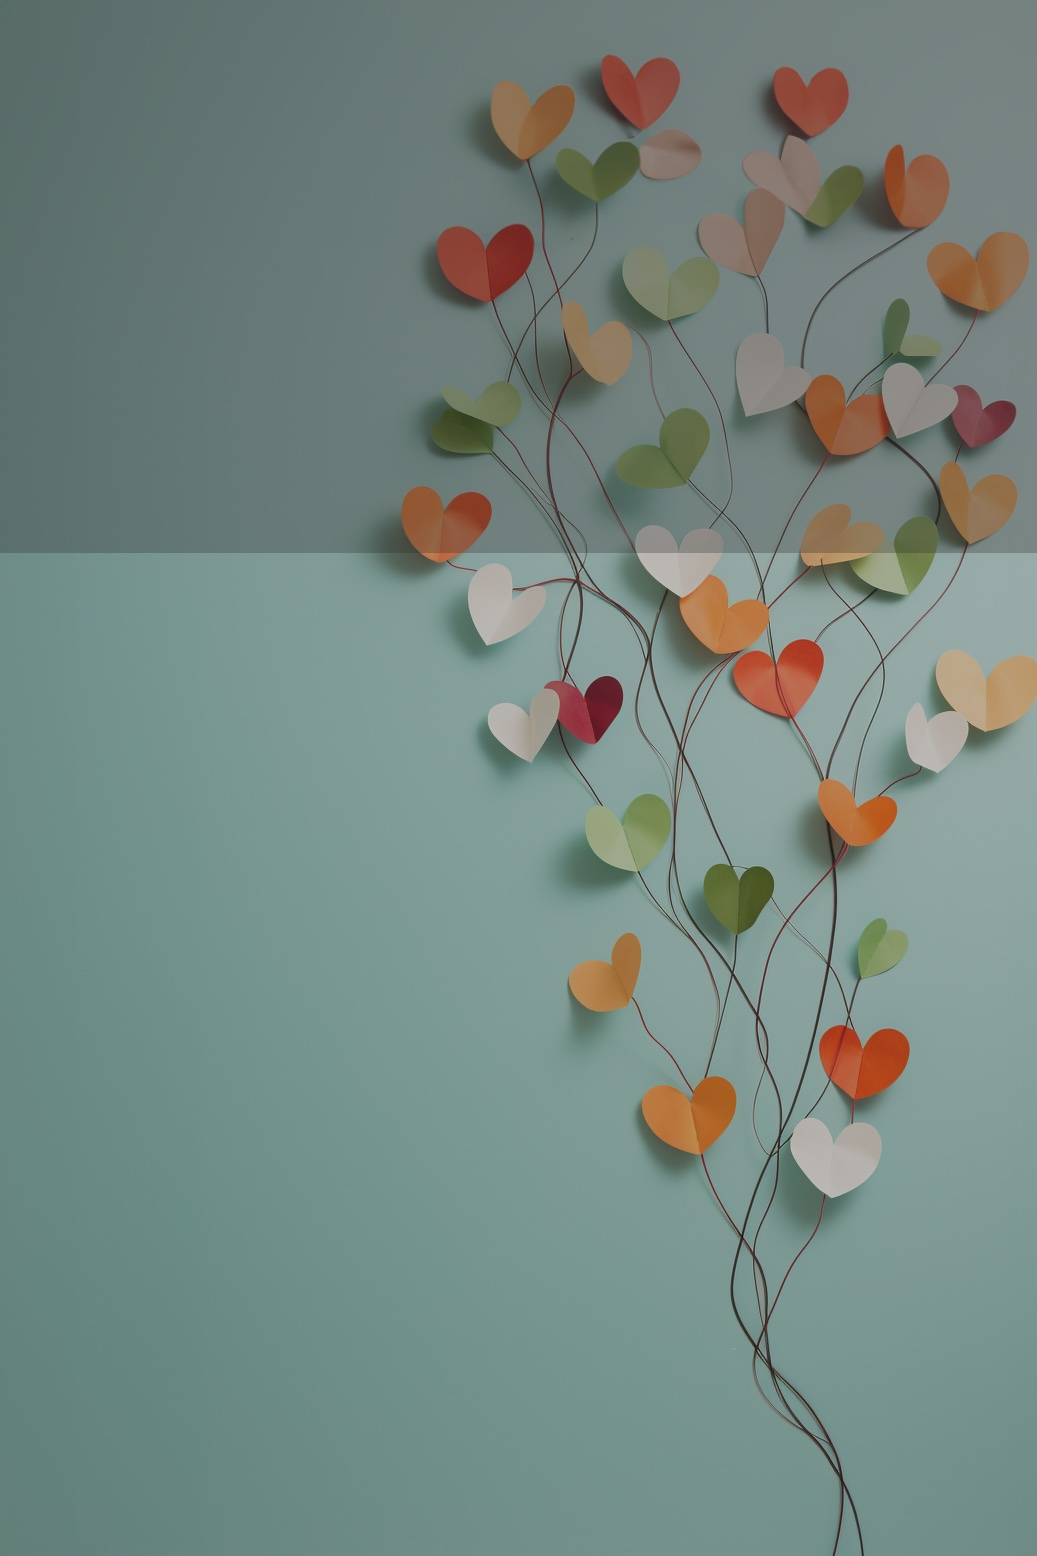
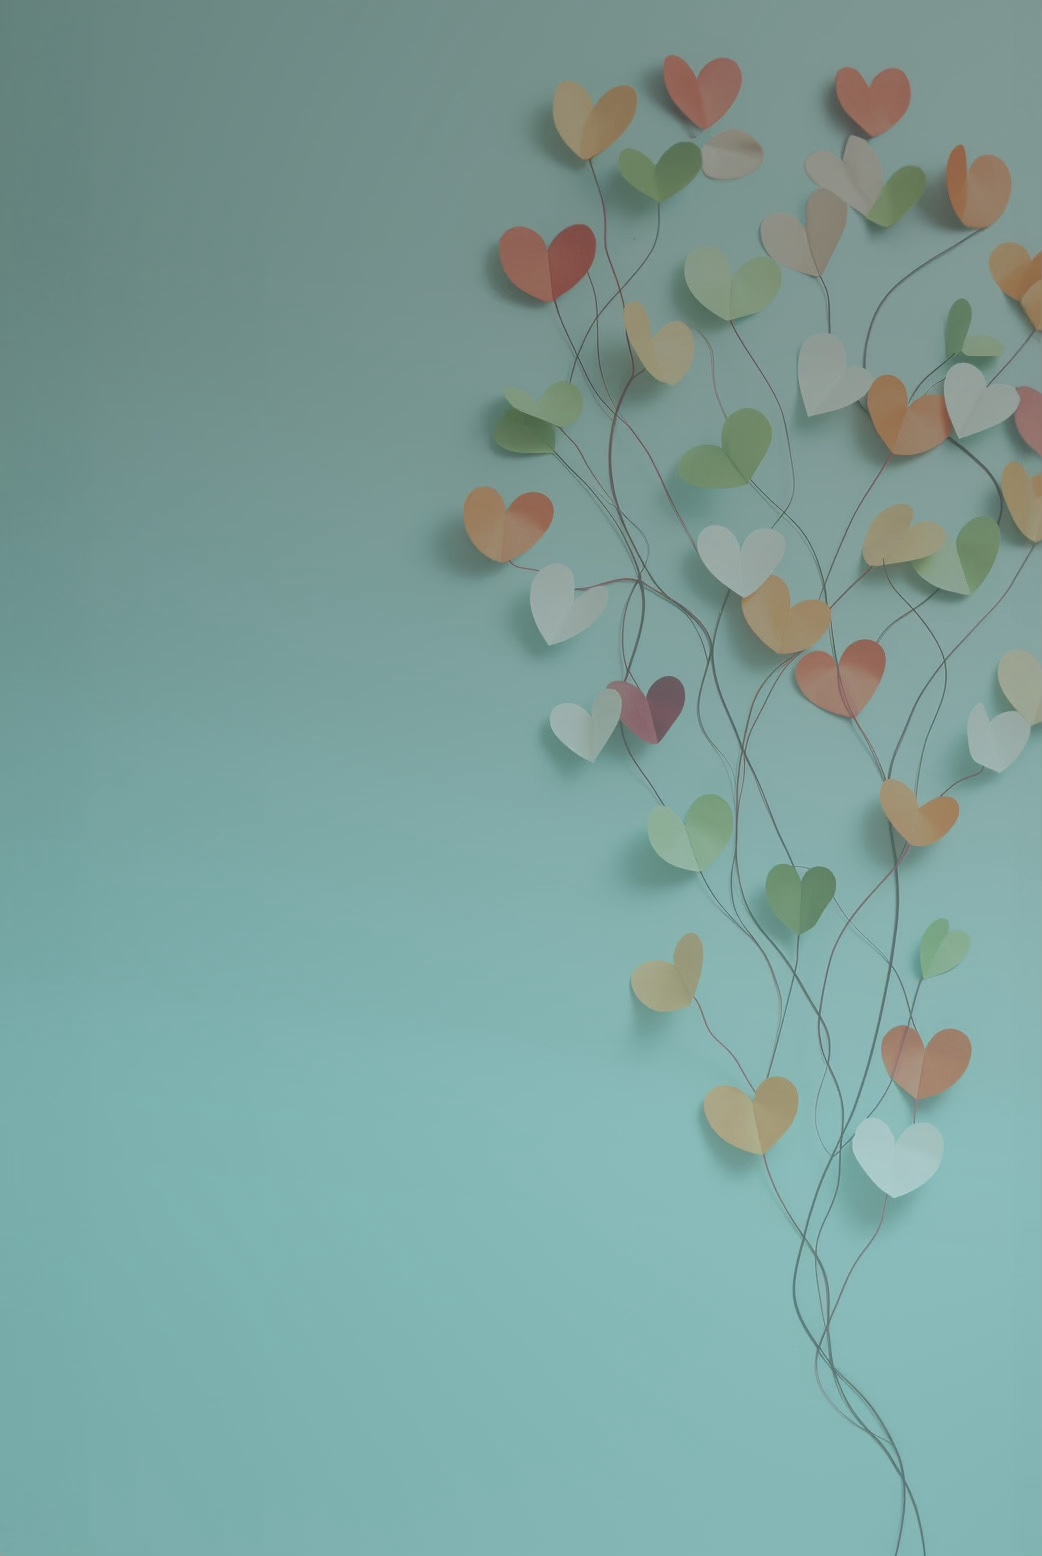
Landing hero

diff --git a/src/components/SectionHero/SectionHero.js b/src/components/SectionHero/SectionHero.js
@@ -55,7 +55,7 @@ const SectionHero = props => {
       const image = new Image();
 
       image.onload = () => {
-        heroRef.current.style.background = ` url('${image.src}')`;
+        heroRef.current.style.background = `linear-gradient( rgba(0, 0, 0, 0.25), rgb(255, 255, 255, 0.2)), url('${image.src}')`;
         heroRef.current.style.backgroundColor = 'var(--matterColor)';
         heroRef.current.style.backgroundPosition = 'center';
         heroRef.current.style.backgroundSize = 'cover';
